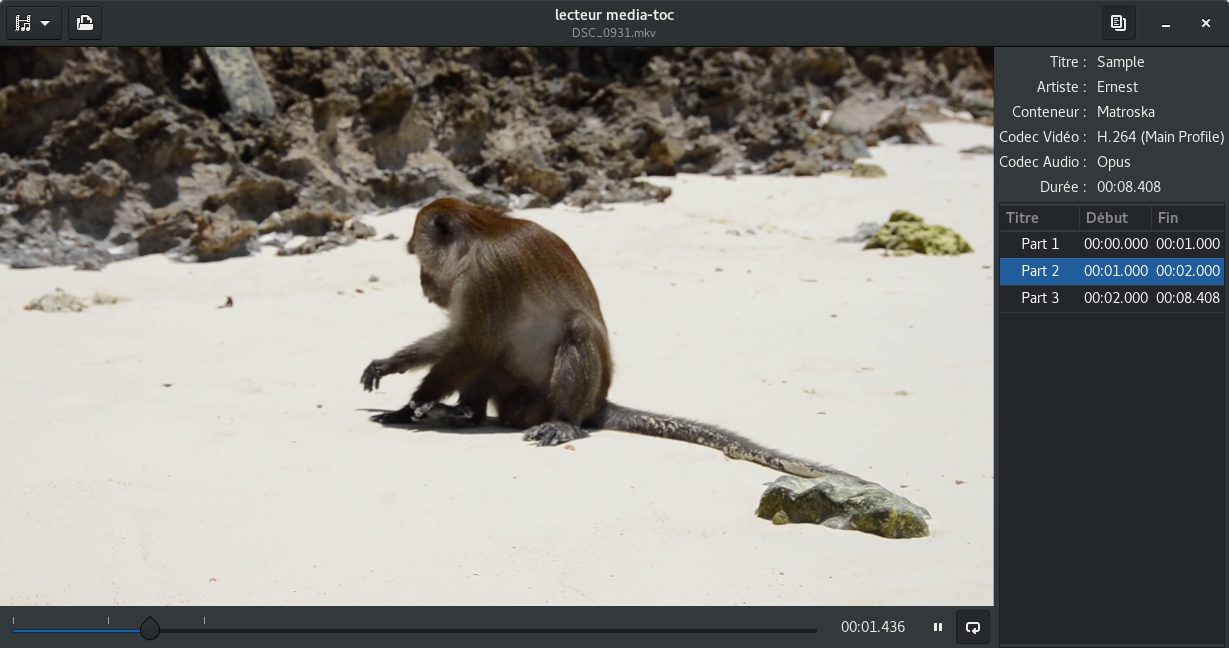
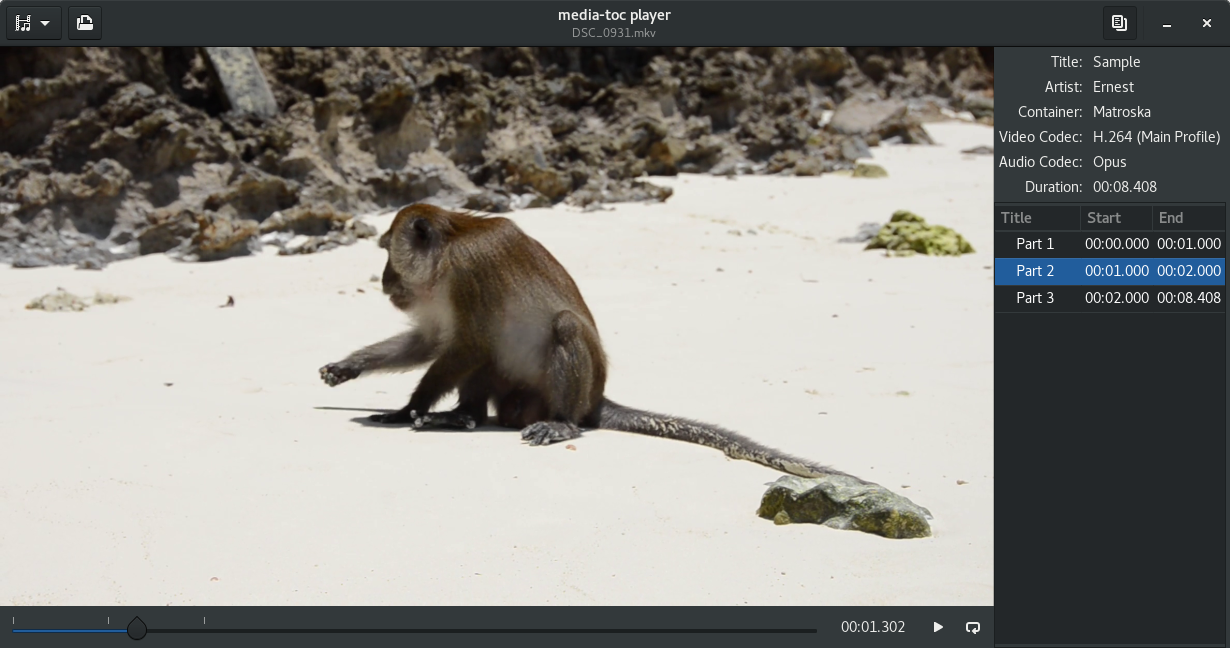
Update screenshot and README

diff --git a/README.md b/README.md
@@ -65,10 +65,8 @@ brew install gtk+3 gstreamer gst-plugins-{base,good,bad,ugly} gst-libav
 - Install the development toolchain, GTK and GStreamer<br>
 Note: for a 32bits system, use `mingw-w64-i686-...`
 ```
-pacman --noconfirm -S mingw-w64-x86_64-gtk3 \
-	mingw-w64-x86_64-gstreamer mingw-w64-x86_64-gst-plugins-base \
-	mingw-w64-x86_64-gst-plugins-good mingw-w64-x86_64-gst-plugins-bad \
-	mingw-w64-x86_64-gst-plugins-ugly mingw-w64-x86_64-gst-libav
+pacman --noconfirm -S gettext-devel mingw-w64-x86_64-gtk3 mingw-w64-x86_64-gstreamer \
+	mingw-w64-x86_64-gst-plugins-{base,good,bad,ugly} mingw-w64-x86_64-gst-libav
 ```
 
 - Launch the [rustup installer](https://www.rustup.rs/).
@@ -77,7 +75,7 @@ When asked for the default host triple, select `x86_64-pc-windows-gnu` (or
 - From a MSYS2 mingw shell
   - add cargo to the `PATH`:
   ```
-  echo 'PATH=$PATH:/c/Users/'$USER'/.cargo/bin' >> /c/Users/'$USER'/.bashrc
+  echo 'PATH=$PATH:/c/Users/'$USER'/.cargo/bin' >> /home/$USER/.bashrc
   ```
   - Restart the MSYS2 shell before using `cargo`.
 
